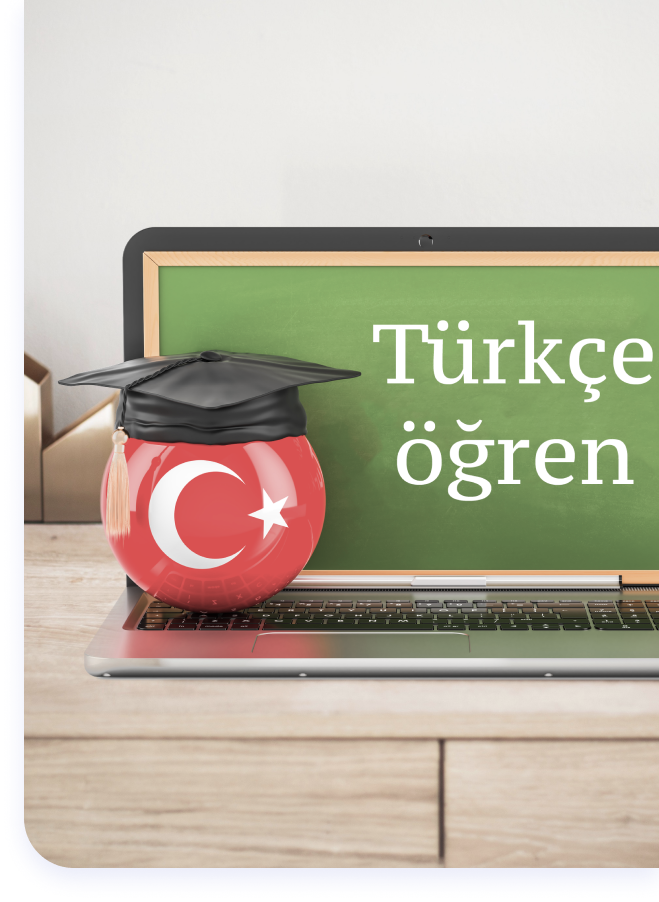
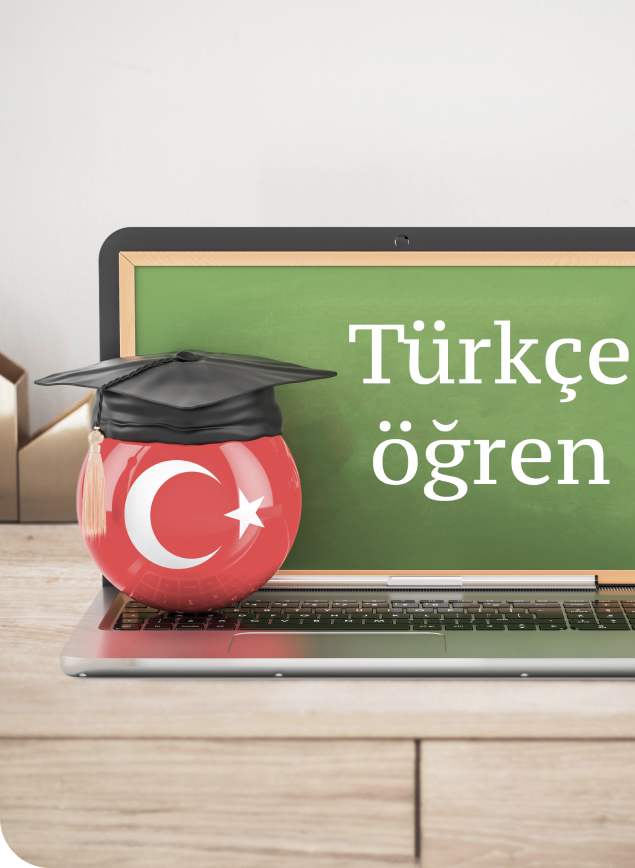
added hero section

diff --git a/docs/css/style.min.css b/docs/css/style.min.css
@@ -1,1 +1,1 @@
-@font-face{src:url("../fonts/Lato-Regular.woff2") format("woff2"),url("../fonts/Lato-Regular.woff") format("woff"),url("../fonts/Lato-Regular.ttf") format("truetype");font-family:"Lato";font-weight:400;font-display:swap}@font-face{src:url("../fonts/Lato-Bold.woff2") format("woff2"),url("../fonts/Lato-Bold.woff") format("woff"),url("../fonts/Lato-Bold.ttf") format("truetype");font-family:"Lato";font-weight:700;font-display:swap}@font-face{src:url("../fonts/Montserrat-Regular.woff2") format("woff2"),url("../fonts/Montserrat-Regular.woff") format("woff"),url("../fonts/Montserrat-Regular.ttf") format("truetype");font-family:"Montserrat";font-weight:400;font-display:swap}@font-face{src:url("../fonts/Montserrat-Bold.woff2") format("woff2"),url("../fonts/Montserrat-Bold.woff") format("woff"),url("../fonts/Montserrat-Bold.ttf") format("truetype");font-family:"Montserrat";font-weight:700;font-display:swap}@font-face{src:url("../fonts/Montserrat-ExtraBold.woff2") format("woff2"),url("../fonts/Montserrat-ExtraBold.woff") format("woff"),url("../fonts/Montserrat-ExtraBold.ttf") format("truetype");font-family:"Montserrat";font-weight:800;font-display:swap}html{-webkit-box-sizing:border-box;box-sizing:border-box;font-size:10px}*,*::before,*::after{-webkit-box-sizing:inherit;box-sizing:inherit}body{overflow-x:hidden;font-family:"Lato", sans-serif;font-weight:400;font-size:1.6rem;line-height:1}a{text-decoration:none;color:inherit}h1,h2,h3,h4,h5,h6,p{margin:0;padding:0}.container{margin:0 auto;padding:0 15px;width:100%;max-width:1200px}.visually-hidden{position:absolute !important;overflow:hidden;border:0 !important;padding:0 !important;width:1px !important;height:1px !important;clip:rect(1px, 1px, 1px, 1px)}.d-flex{display:-webkit-box;display:-ms-flexbox;display:flex}.d-block{display:block}.fz0{font-size:0}.list-reset{list-style-type:none;margin:0;padding:0}.header{padding:24px 0 23px;-webkit-box-shadow:0 10px 40px rgba(0,11,68,0.22);box-shadow:0 10px 40px rgba(0,11,68,0.22);background-color:#3035c4}.header__inner{-webkit-box-align:center;-ms-flex-align:center;align-items:center;-webkit-box-pack:justify;-ms-flex-pack:justify;justify-content:space-between}.header__contacts{display:-webkit-box;display:-ms-flexbox;display:flex;-webkit-box-align:center;-ms-flex-align:center;align-items:center}.header__contact{position:relative;display:-webkit-box;display:-ms-flexbox;display:flex;-webkit-box-align:center;-ms-flex-align:center;align-items:center;font-family:"Montserrat";font-weight:700;font-size:1.6rem;letter-spacing:1px;color:#fff}.header__contact::before{content:"";margin-right:8px;width:24px;height:24px;background-image:url("../images/whatsapp.svg")}@media only screen and (max-width: 768px){.header__contact::before{margin-right:0;width:38px;height:38px;background-size:cover}}.header__contact::after{content:attr(data-only-sms);position:absolute;left:50%;bottom:-10px;font-family:"Lato";font-weight:400;font-size:1rem;white-space:nowrap;color:#fff;-webkit-transform:translateX(-37%);-ms-transform:translateX(-37%);transform:translateX(-37%)}@media only screen and (max-width: 768px){.header__contact::after{display:none}}.header__contact:not(:last-child){margin-right:32px}.header__contact:not(:last-child)::before{margin-right:9px;width:20px;height:20px;background-image:url("../images/phone.svg")}@media only screen and (max-width: 768px){.header__contact:not(:last-child)::before{margin-right:0;width:30px;height:30px}}@media only screen and (max-width: 768px){.header__contact:not(:last-child){margin-right:28px}}@media only screen and (max-width: 768px){.header__contact{font-size:0;letter-spacing:0}}
+@font-face{src:url("../fonts/Lato-Regular.woff2") format("woff2"),url("../fonts/Lato-Regular.woff") format("woff"),url("../fonts/Lato-Regular.ttf") format("truetype");font-family:"Lato";font-weight:400;font-display:swap}@font-face{src:url("../fonts/Lato-Bold.woff2") format("woff2"),url("../fonts/Lato-Bold.woff") format("woff"),url("../fonts/Lato-Bold.ttf") format("truetype");font-family:"Lato";font-weight:700;font-display:swap}@font-face{src:url("../fonts/Montserrat-Regular.woff2") format("woff2"),url("../fonts/Montserrat-Regular.woff") format("woff"),url("../fonts/Montserrat-Regular.ttf") format("truetype");font-family:"Montserrat";font-weight:400;font-display:swap}@font-face{src:url("../fonts/Montserrat-Bold.woff2") format("woff2"),url("../fonts/Montserrat-Bold.woff") format("woff"),url("../fonts/Montserrat-Bold.ttf") format("truetype");font-family:"Montserrat";font-weight:700;font-display:swap}@font-face{src:url("../fonts/Montserrat-ExtraBold.woff2") format("woff2"),url("../fonts/Montserrat-ExtraBold.woff") format("woff"),url("../fonts/Montserrat-ExtraBold.ttf") format("truetype");font-family:"Montserrat";font-weight:800;font-display:swap}html{-webkit-box-sizing:border-box;box-sizing:border-box;font-size:10px}*,*::before,*::after{-webkit-box-sizing:inherit;box-sizing:inherit}body{overflow-x:hidden;font-family:"Lato", sans-serif;font-weight:400;font-size:1.6rem;line-height:1}a{text-decoration:none;color:inherit}h1,h2,h3,h4,h5,h6,p{margin:0;padding:0}.container{margin:0 auto;padding:0 15px;width:100%;max-width:1200px}.title{font-family:"Montserrat";font-weight:800;font-size:4rem;line-height:1.3;color:#23283b}.title--big{font-size:4.8rem}@media only screen and (max-width: 575px){.title--big{font-size:2.9rem}}.text{font-family:"Lato";line-height:1.5}@media only screen and (max-width: 575px){.text{font-size:1.4rem}}.btn{outline:transparent;border:none;border-radius:30px;padding:16px 40px;min-width:370px;font-family:"Montserrat";font-weight:700;font-size:1.6rem;color:#fff;background-color:#e6514a;-webkit-transition:background-color 0.3s, -webkit-box-shadow 0.3s;transition:background-color 0.3s, -webkit-box-shadow 0.3s;-o-transition:box-shadow 0.3s, background-color 0.3s;transition:box-shadow 0.3s, background-color 0.3s;transition:box-shadow 0.3s, background-color 0.3s, -webkit-box-shadow 0.3s;cursor:pointer}.btn:focus{-webkit-box-shadow:0 0 0 4px rgba(230,81,74,0.5);box-shadow:0 0 0 4px rgba(230,81,74,0.5)}.btn:hover{background-color:#c44943}.btn:active{background-color:#a73e39}.btn--sm{min-width:270px}@media only screen and (max-width: 575px){.btn{min-width:290px;font-size:1.3rem}}.visually-hidden{position:absolute !important;overflow:hidden;border:0 !important;padding:0 !important;width:1px !important;height:1px !important;clip:rect(1px, 1px, 1px, 1px)}.d-flex{display:-webkit-box;display:-ms-flexbox;display:flex}.d-block{display:block}.fz0{font-size:0}.list-reset{list-style-type:none;margin:0;padding:0}.shadow{-webkit-box-shadow:0 10px 24px rgba(73,95,211,0.12);box-shadow:0 10px 24px rgba(73,95,211,0.12)}.header{position:fixed;top:0;z-index:100;padding:24px 0 23px;width:100%;-webkit-box-shadow:0 10px 40px rgba(0,11,68,0.22);box-shadow:0 10px 40px rgba(0,11,68,0.22);background-color:#3035c4}.header__inner{-webkit-box-align:center;-ms-flex-align:center;align-items:center;-webkit-box-pack:justify;-ms-flex-pack:justify;justify-content:space-between}.header__contacts{display:-webkit-box;display:-ms-flexbox;display:flex;-webkit-box-align:center;-ms-flex-align:center;align-items:center}.header__contact{position:relative;display:-webkit-box;display:-ms-flexbox;display:flex;-webkit-box-align:center;-ms-flex-align:center;align-items:center;font-family:"Montserrat";font-weight:700;font-size:1.6rem;letter-spacing:1px;color:#fff}.header__contact::before{content:"";margin-right:8px;width:24px;height:24px;background-image:url("../images/whatsapp.svg")}@media only screen and (max-width: 768px){.header__contact::before{margin-right:0;width:38px;height:38px;background-size:cover}}.header__contact::after{content:attr(data-only-sms);position:absolute;left:50%;bottom:-10px;font-family:"Lato";font-weight:400;font-size:1rem;white-space:nowrap;color:#fff;-webkit-transform:translateX(-37%);-ms-transform:translateX(-37%);transform:translateX(-37%)}@media only screen and (max-width: 768px){.header__contact::after{display:none}}.header__contact:not(:last-child){margin-right:32px}.header__contact:not(:last-child)::before{margin-right:9px;width:20px;height:20px;background-image:url("../images/phone.svg")}@media only screen and (max-width: 768px){.header__contact:not(:last-child)::before{margin-right:0;width:30px;height:30px}}@media only screen and (max-width: 768px){.header__contact:not(:last-child){margin-right:28px}}@media only screen and (max-width: 768px){.header__contact{font-size:0;letter-spacing:0}}.hero{height:768px;font-family:"Montserrat";background-color:#3035c4}.hero__offer{position:relative;z-index:1;padding-top:210px}@media only screen and (max-width: 575px){.hero__offer{padding-top:156px;text-align:center}}.hero__headline{display:inline-block;margin-bottom:16px;font-weight:700;line-height:1.3;color:#e6514a}.hero__title{margin-bottom:32px;max-width:600px;color:#fff}.hero__text{margin-bottom:68px;max-width:570px;color:#fff}.hero__img{position:absolute;right:0;top:0;z-index:0;border-bottom-left-radius:50px}@media only screen and (max-width: 1200px){.hero__img{display:none}}@media only screen and (max-width: 1200px){.hero{background-image:url("../images/hero-img.png");background-position:right center;background-size:cover;background-repeat:no-repeat}.hero::before{content:"";position:absolute;left:0;top:0;width:100%;height:768px;background-color:rgba(0,0,0,0.4)}}@media only screen and (max-width: 575px){.hero{background-image:none}.hero::before{content:none}}@media only screen and (max-width: 575px){.hero{height:590px}}

diff --git a/app/scss/parts/_hero.scss b/app/scss/parts/_hero.scss
@@ -1,0 +1,77 @@
+.hero {
+  height: 768px;
+  font-family: "Montserrat";
+  background-color: $dark-blue;
+
+  &__offer {
+    position: relative;
+    z-index: 1;
+    padding-top: 210px;
+
+    @include rmax($sm) {
+      padding-top: 156px;
+      text-align: center;
+    }
+  }
+
+  &__headline {
+    display: inline-block;
+    margin-bottom: 16px;
+    font-weight: 700;
+    line-height: 1.3;
+    color: $red;
+  }
+
+  &__title {
+    margin-bottom: 32px;
+    max-width: 600px;
+    color: $white;
+  }
+
+  &__text {
+    margin-bottom: 68px;
+    max-width: 570px;
+    color: $white;
+  }
+
+  &__img {
+    position: absolute;
+    right: 0;
+    top: 0;
+    z-index: 0;
+    border-bottom-left-radius: 50px;
+
+    @include rmax($xl) {
+      display: none;
+    }
+  }
+
+  @include rmax($xl) {
+    background-image: url("../images/hero-img.png");
+    background-position: right center;
+    background-size: cover;
+    background-repeat: no-repeat;
+
+    &::before {
+      content: "";
+      position: absolute;
+      left: 0;
+      top: 0;
+      width: 100%;
+      height: 768px;
+      background-color: rgba($black, 0.4);
+    }
+  }
+
+  @include rmax($sm) {
+    background-image: none;
+
+    &::before {
+      content: none;
+    }
+  }
+
+  @include rmax($sm) {
+    height: 590px;
+  }
+}

diff --git a/app/scss/_global.scss b/app/scss/_global.scss
@@ -40,6 +40,67 @@ p {
   max-width: 1200px;
 }
 
+.title {
+  font-family: "Montserrat";
+  font-weight: 800;
+  font-size: 4rem;
+  line-height: 1.3;
+  color: $dark;
+
+  &--big {
+    font-size: 4.8rem;
+
+    @include rmax($sm) {
+      font-size: 2.9rem;
+    }
+  }
+}
+
+.text {
+  font-family: "Lato";
+  line-height: 1.5;
+
+  @include rmax($sm) {
+    font-size: 1.4rem;
+  }
+}
+
+.btn {
+  outline: transparent;
+  border: none;
+  border-radius: 30px;
+  padding: 16px 40px;
+  min-width: 370px;
+  font-family: "Montserrat";
+  font-weight: 700;
+  font-size: 1.6rem;
+  color: $white;
+  background-color: $red;
+  transition: box-shadow 0.3s, background-color 0.3s;
+  cursor: pointer;
+
+  &:focus {
+    box-shadow: 0 0 0 4px rgba($red, 0.5);
+  }
+
+  &:hover {
+    background-color: #c44943;
+  }
+
+  &:active {
+    background-color: #a73e39;
+  }
+
+  &--sm {
+    min-width: 270px;
+  }
+
+  @include rmax($sm) {
+    min-width: 290px;
+    font-size: 1.3rem;
+  }
+}
+
 .visually-hidden {
   /* stylelint-disable */
   position: absolute !important;
@@ -70,4 +131,8 @@ p {
   list-style-type: none;
   margin: 0;
   padding: 0;
+}
+
+.shadow {
+  box-shadow: 0 10px 24px rgba($shadow, 0.12);
 }

diff --git a/docs/index.html b/docs/index.html
@@ -30,7 +30,16 @@
 
 <section class="hero">
   <div class="container">
-    
+    <div class="hero__offer">
+      <span class="hero__headline">Бесплатный урок!</span>
+      <h1 class="hero__title title title--big">Индивидуальный Турецкий онлайн</h1>
+      <p class="hero__text text">
+        Хотите быстро прокачать язык для личной жизни, работы, учебы и ПМЖ в Турции? Занимайтесь онлайн с лучшими
+        преподавателями и начните говорить на турецком с первых занятий.
+      </p>
+      <button class="hero__btn btn" type="button">Записаться на пробный урок</button>
+    </div>
+    <img class="hero__img shadow" src="images/hero-img.png" alt="Ноутбук с надписью на турецком">
   </div>
 </section>
 

diff --git a/app/html/parts/_hero.html b/app/html/parts/_hero.html
@@ -1,5 +1,14 @@
 <section class="hero">
   <div class="container">
-    
+    <div class="hero__offer">
+      <span class="hero__headline">Бесплатный урок!</span>
+      <h1 class="hero__title title title--big">Индивидуальный Турецкий онлайн</h1>
+      <p class="hero__text text">
+        Хотите быстро прокачать язык для личной жизни, работы, учебы и ПМЖ в Турции? Занимайтесь онлайн с лучшими
+        преподавателями и начните говорить на турецком с первых занятий.
+      </p>
+      <button class="hero__btn btn" type="button">Записаться на пробный урок</button>
+    </div>
+    <img class="hero__img shadow" src="images/hero-img.png" alt="Ноутбук с надписью на турецком">
   </div>
 </section>

diff --git a/app/scss/_vars.scss b/app/scss/_vars.scss
@@ -1,10 +1,17 @@
 // Colors
 $white: #fff;
+$dark-white: #fafafa;
+$dark: #23283b;
 $black: #000;
 $blue: #0252ff;
 $dark-blue: #3035c4;
 $blue-shadow: #000b44;
+$shadow: #495fd3;
 $green: #4caf50;
+$red: #e6514a;
+$gold: #e6c44a;
 
 // Breakpoints
+$xl: 1200;
 $md: 768;
+$sm: 575;

diff --git a/app/scss/components/_header.scss b/app/scss/components/_header.scss
@@ -1,5 +1,9 @@
 .header {
+  position: fixed;
+  top: 0;
+  z-index: 100;
   padding: 24px 0 23px;
+  width: 100%;
   box-shadow: 0 10px 40px rgba($blue-shadow, 0.22);
   background-color: $dark-blue;
 

diff --git a/app/scss/style.scss b/app/scss/style.scss
@@ -3,4 +3,5 @@
 @import "mixin";
 @import "global";
 @import "components/header";
+@import "parts/hero";
 @import "components/footer";
